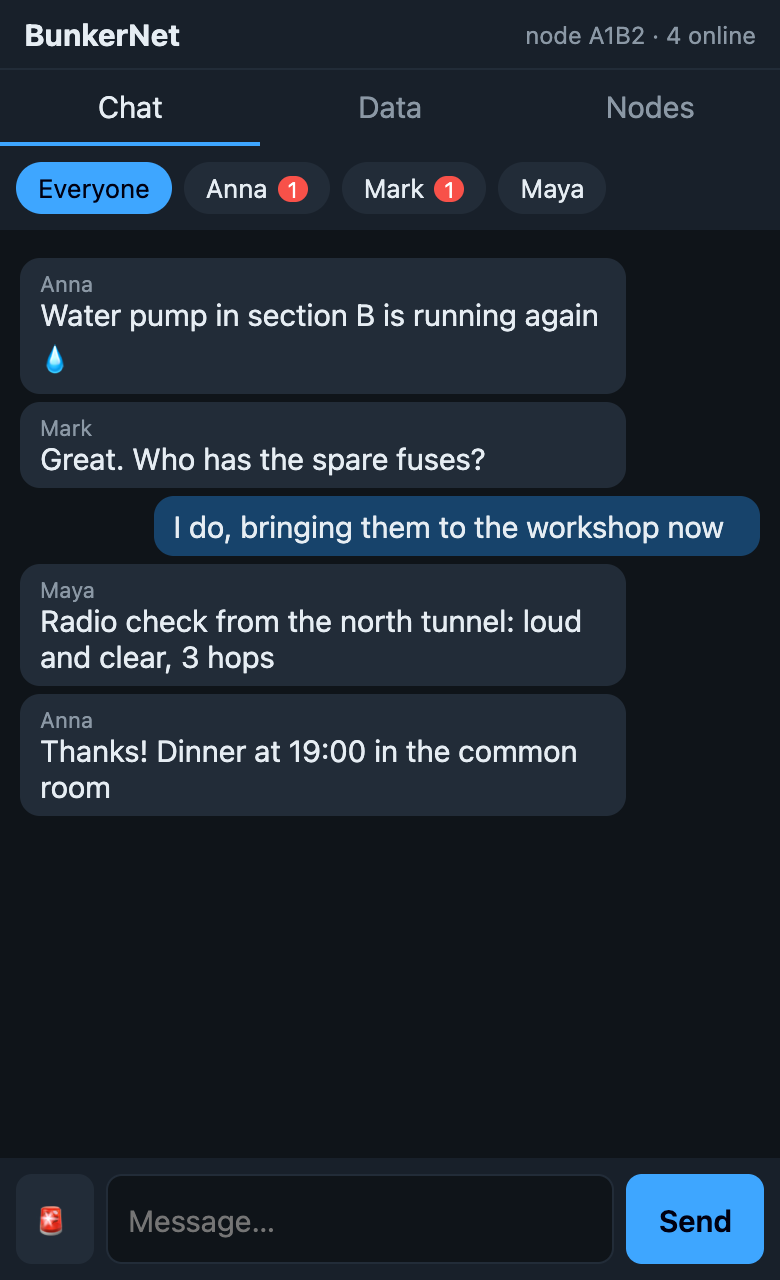
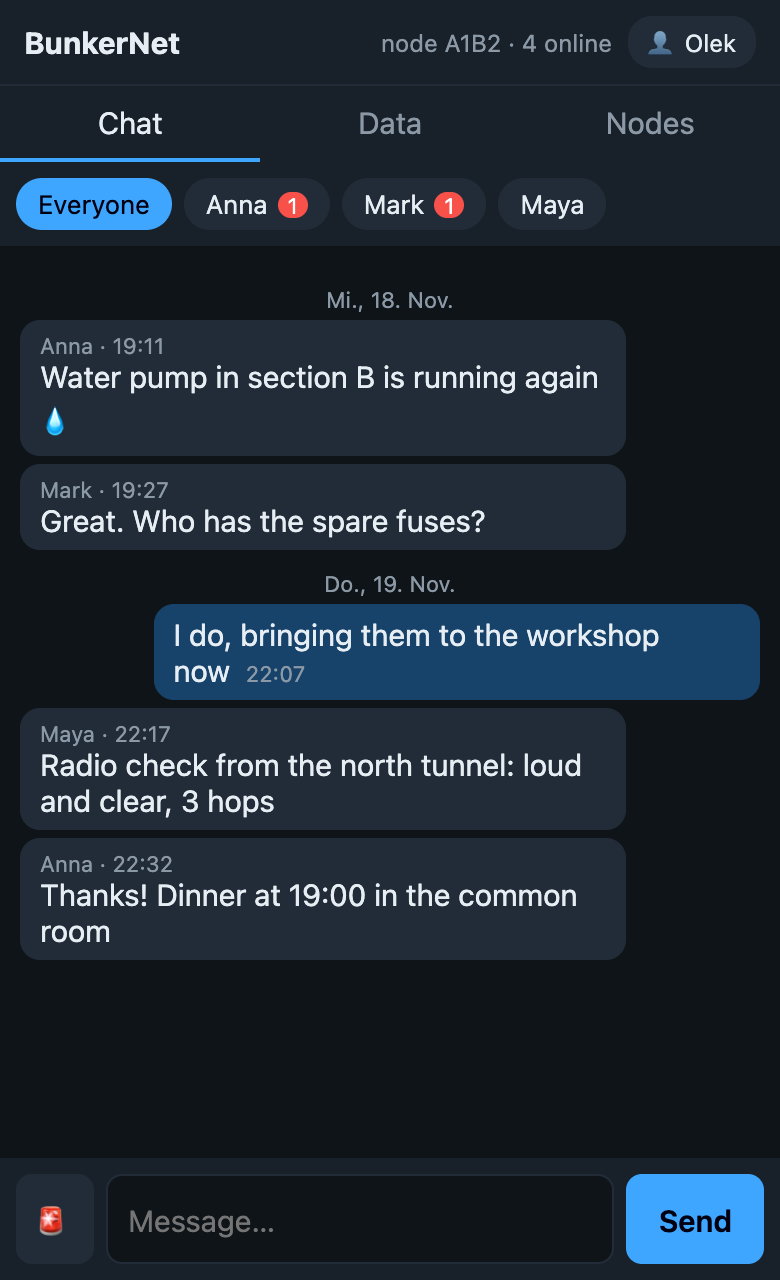
Add message and data timestamps with date separators, rename button, docs

diff --git a/tools/screenshots/mock_server.js b/tools/screenshots/mock_server.js
@@ -14,24 +14,24 @@ const state = { alert: false };
 
 // f === 'me' is replaced by the requesting client's id
 const msgs = [
-  { i: 1, t: 1, f: ANNA, to: '00000000', m: '00000001', n: 'Anna', x: 'Water pump in section B is running again 💧' },
-  { i: 2, t: 1, f: MARK, to: '00000000', m: '00000002', n: 'Mark', x: 'Great. Who has the spare fuses?' },
-  { i: 3, t: 1, f: 'me', to: '00000000', m: '00000003', n: 'Olek', x: 'I do, bringing them to the workshop now' },
-  { i: 4, t: 1, f: MAYA, to: '00000000', m: '00000004', n: 'Maya', x: 'Radio check from the north tunnel: loud and clear, 3 hops' },
-  { i: 5, t: 1, f: ANNA, to: '00000000', m: '00000005', n: 'Anna', x: 'Thanks! Dinner at 19:00 in the common room' },
-  { i: 6, t: 2, f: MARK, to: 'me', m: '00000006', n: 'Mark', x: 'Can you check the generator fuel level?' },
-  { i: 7, t: 2, f: 'me', to: MARK, m: '00000007', n: 'Olek', x: 'On my way' },
-  { i: 8, t: 2, f: 'me', to: MARK, m: '00000008', n: 'Olek', x: 'Fuel is at 70%, enough for 2 days' },
-  { i: 9, t: 2, f: ANNA, to: 'me', m: '00000009', n: 'Anna', x: 'Are you bringing the fuses?' },
-  { i: 10, t: 5, f: MARK, to: 'me', m: '00000007', n: '', x: '' },
+  { i: 1, t: 1, f: ANNA, to: '00000000', m: '00000001', n: 'Anna', x: 'Water pump in section B is running again 💧', ago: 100000 },
+  { i: 2, t: 1, f: MARK, to: '00000000', m: '00000002', n: 'Mark', x: 'Great. Who has the spare fuses?', ago: 99000 },
+  { i: 3, t: 1, f: 'me', to: '00000000', m: '00000003', n: 'Olek', x: 'I do, bringing them to the workshop now', ago: 3000 },
+  { i: 4, t: 1, f: MAYA, to: '00000000', m: '00000004', n: 'Maya', x: 'Radio check from the north tunnel: loud and clear, 3 hops', ago: 2400 },
+  { i: 5, t: 1, f: ANNA, to: '00000000', m: '00000005', n: 'Anna', x: 'Thanks! Dinner at 19:00 in the common room', ago: 1500 },
+  { i: 6, t: 2, f: MARK, to: 'me', m: '00000006', n: 'Mark', x: 'Can you check the generator fuel level?', ago: 1200 },
+  { i: 7, t: 2, f: 'me', to: MARK, m: '00000007', n: 'Olek', x: 'On my way', ago: 900 },
+  { i: 8, t: 2, f: 'me', to: MARK, m: '00000008', n: 'Olek', x: 'Fuel is at 70%, enough for 2 days', ago: 600 },
+  { i: 9, t: 2, f: ANNA, to: 'me', m: '00000009', n: 'Anna', x: 'Are you bringing the fuses?', ago: 300 },
+  { i: 10, t: 5, f: MARK, to: 'me', m: '00000007', n: '', x: '', ago: 590 },
 ];
 const users = [{ id: ANNA, n: 'Anna' }, { id: MARK, n: 'Mark' }, { id: MAYA, n: 'Maya' }];
 const data = [
-  { k: 'water_level', v: '62 %', f: MAYA },
-  { k: 'fuel_main', v: '70 %', f: MARK },
-  { k: 'temp_cellar', v: '14.2 C', f: ANNA },
-  { k: 'door_north', v: 'closed', f: MAYA },
-  { k: 'air_filter_B', v: 'check', f: MARK },
+  { k: 'water_level', v: '62 %', f: MAYA, ago: 1800 },
+  { k: 'fuel_main', v: '70 %', f: MARK, ago: 7200 },
+  { k: 'temp_cellar', v: '14.2 C', f: ANNA, ago: 300 },
+  { k: 'door_north', v: 'closed', f: MAYA, ago: 90000 },
+  { k: 'air_filter_B', v: 'check', f: MARK, ago: 5400 },
 ];
 const nodes = {
   id: 'A1B2', up: 86412, heap: 21840, clients: 3,
@@ -46,14 +46,15 @@ const nodes = {
 
 function poll(q) {
   const me = q.get('me') || '00000000', since = Number(q.get('since') || 0);
+  const now = Math.floor(Date.now() / 1000);
   const fix = (v) => (v === 'me' ? me : v);
   const out = {
     node: 'A1B2', last: msgs.length,
-    msgs: msgs.filter((m) => m.i > since).map((m) => ({ ...m, f: fix(m.f), to: fix(m.to) })),
+    msgs: msgs.filter((m) => m.i > since).map((m) => ({ ...m, s: now - m.ago, f: fix(m.f), to: fix(m.to) })),
     users: [...users, { id: me, n: q.get('name') || 'me' }],
     dv: 1, av: state.alert ? 2 : 1,
   };
-  if (q.get('dv') !== '1') out.data = data;
+  if (q.get('dv') !== '1') out.data = data.map((d) => ({ ...d, s: now - d.ago }));
   if (state.alert && q.get('av') !== '2') {
     out.alerts = [{ m: 'aaaa0001', n: 'Node-77C4', x: 'SOS button pressed at Node-77C4' }];
   }

diff --git a/tools/screenshots/shoot.js b/tools/screenshots/shoot.js
@@ -17,7 +17,7 @@ async function main() {
   const profile = fs.mkdtempSync(path.join(os.tmpdir(), 'bn-shot-'));
   const chrome = spawn(CHROME, [
     '--headless=new', `--remote-debugging-port=${CDP}`, `--user-data-dir=${profile}`,
-    '--no-first-run', '--hide-scrollbars', 'about:blank',
+    '--no-first-run', '--lang=en-US', '--hide-scrollbars', 'about:blank',
   ], { stdio: 'ignore' });
   try {
     let targets;

diff --git a/firmware/bunkernet/web_ui.h b/firmware/bunkernet/web_ui.h
@@ -28,26 +28,34 @@ table{width:100%;border-collapse:collapse}td,th{padding:7px 4px;border-bottom:1p
 .d{display:inline-block;width:8px;height:8px;border-radius:50%;background:var(--g);margin-right:6px}
 #nm{position:fixed;inset:0;background:var(--bg);display:flex;flex-direction:column;gap:10px;align-items:center;justify-content:center;padding:20px}
 #nm[hidden]{display:none}
+#who{background:var(--p2);color:var(--t);border:0;border-radius:12px;padding:3px 10px;font:inherit;font-size:12px}
+.day{text-align:center;color:var(--m);font-size:11px;margin:10px 0 4px}.m s.t{margin-left:8px}
 #al{background:var(--r);color:#fff}.al{display:flex;align-items:center;gap:8px;padding:8px 12px;border-bottom:1px solid #0004;font-weight:600}.al span{flex:1}.al button{border:0;border-radius:6px;padding:4px 8px;font:inherit;font-size:12px}
 .go.red{background:var(--r);color:#fff}#ab{padding:10px;border:0;border-radius:8px;background:var(--p2);font:inherit}
 </style></head><body>
-<header><b>BunkerNet</b><span id="st">connecting…</span></header>
+<header><b>BunkerNet</b><span id="st">connecting…</span><button id="who" title="Change your name"></button></header>
 <div id="al"></div>
 <nav><button data-t="chat" class="on">Chat</button><button data-t="data">Data</button><button data-t="nodes">Nodes</button></nav>
 <main id="chat" class="on"><div id="convs"></div><div id="msgs"></div>
 <form id="f"><button type="button" id="ab" title="Emergency alert">🚨</button><input id="x" maxlength="140" autocomplete="off" placeholder="Message…"><button class="go" id="sb">Send</button></form></main>
-<main id="data"><table><thead><tr><th>Key</th><th>Value</th><th>From</th></tr></thead><tbody id="dt"></tbody></table>
+<main id="data"><table><thead><tr><th>Key</th><th>Value</th><th>From</th><th>Updated</th></tr></thead><tbody id="dt"></tbody></table>
 <form id="df"><input id="dk" maxlength="15" placeholder="key" style="flex:.6"><input id="dv" maxlength="47" placeholder="value"><button class="go">Set</button></form></main>
 <main id="nodes"><p id="ni" style="color:var(--m)"></p><table><thead><tr><th>Node</th><th>Hops</th><th>Seen</th></tr></thead><tbody id="nt"></tbody></table></main>
-<div id="nm" hidden><h2>Welcome to BunkerNet</h2><input id="ni2" maxlength="15" placeholder="Your name" style="flex:none;width:240px"><button class="go" id="nb">Join</button></div>
+<div id="nm" hidden><h2>Welcome to BunkerNet</h2><input id="ni2" maxlength="15" placeholder="Your name" style="flex:none;width:240px"><button class="go" id="nb">Join</button><button class="chip" id="nc" hidden>Cancel</button></div>
 <script>
 const $=s=>document.querySelector(s),E=s=>String(s).replace(/[&<>"]/g,c=>({'&':'&amp;','<':'&lt;','>':'&gt;','"':'&quot;'}[c]));
 const ls=(k,v)=>{try{if(v===undefined)return localStorage.getItem(k);localStorage.setItem(k,v)}catch(e){return null}};
 let me=ls('uid');if(!me){me=('0000000'+((Math.random()*4294967294+1)>>>0).toString(16)).slice(-8);ls('uid',me)}
 let name=ls('name')||'',since=0,dv=-1,av=-1,alerts=[],seenAl={},hidAl={},alertMode=0,msgs=[],acked=new Set(),users=[],unread={},cur='all',busy=0,tab='chat',node='';
 const uname=id=>{const u=users.find(u=>u.id==id);return u?u.n:id.slice(0,4)};
-function askName(){if(name)return;$('#nm').hidden=0}
-$('#nb').onclick=()=>{const v=$('#ni2').value.trim();if(!v)return;name=v;ls('name',v);$('#nm').hidden=1;poll()};
+function askName(edit){if(name&&!edit)return;$('#ni2').value=name;$('#nc').hidden=!name;$('#nm').hidden=0;$('#ni2').focus()}
+function who(){$('#who').textContent='👤 '+(name||'?')}
+$('#who').onclick=()=>askName(1);$('#nc').onclick=()=>{$('#nm').hidden=1};
+$('#nb').onclick=()=>{const v=$('#ni2').value.trim();if(!v)return;name=v;ls('name',v);$('#nm').hidden=1;who();poll()};
+const p2=n=>('0'+n).slice(-2),tm=ms=>{const d=new Date(ms);return p2(d.getHours())+':'+p2(d.getMinutes())},
+dayk=ms=>{const d=new Date(ms);return d.getFullYear()+'-'+d.getMonth()+'-'+d.getDate()},
+dlab=ms=>new Date(ms).toLocaleDateString(undefined,{weekday:'short',day:'numeric',month:'short'}),
+stamp=ms=>dayk(ms)==dayk(Date.now())?tm(ms):dlab(ms)+' '+tm(ms);
 document.querySelectorAll('nav button').forEach(b=>b.onclick=()=>{tab=b.dataset.t;document.querySelectorAll('nav button,main').forEach(e=>e.classList.remove('on'));b.classList.add('on');$('#'+tab).classList.add('on');if(tab=='nodes')nodes()});
 const key=m=>m.t==1?'all':(m.f==me?m.to:m.f);
 function render(){
@@ -56,15 +64,15 @@ function render(){
  $('#convs').innerHTML=h;
  $('#convs').querySelectorAll('.chip').forEach(c=>c.onclick=()=>{cur=c.dataset.c;unread[cur]=0;render()});
  const box=$('#msgs'),stick=box.scrollTop+box.clientHeight>=box.scrollHeight-40;
- box.innerHTML=msgs.filter(m=>key(m)==cur).map(m=>{const mine=m.f==me;
-  return '<div class="m'+(mine?' me':'')+'">'+(mine?'':'<small>'+E(m.n)+'</small>')+E(m.x)+(mine&&m.t==2?'<s class="'+(acked.has(m.m)?'ok">✓✓':'">✓')+'</s>':'')+'</div>'}).join('');
+ let ld='';box.innerHTML=msgs.filter(m=>key(m)==cur).map(m=>{const mine=m.f==me,dk=dayk(m.ms);let h='';if(dk!=ld){ld=dk;h='<div class="day">'+dlab(m.ms)+'</div>'}
+  return h+'<div class="m'+(mine?' me':'')+'">'+(mine?'':'<small>'+E(m.n)+' · '+tm(m.ms)+'</small>')+E(m.x)+(mine?'<s class="t">'+tm(m.ms)+'</s>'+(m.t==2?'<s class="'+(acked.has(m.m)?'ok">✓✓':'">✓')+'</s>':''):'')+'</div>'}).join('');
  if(stick)box.scrollTop=box.scrollHeight}
 async function poll(){if(busy||!name)return;busy=1;
  try{const r=await fetch('/poll?since='+since+'&me='+me+'&name='+encodeURIComponent(name)+'&dv='+dv+'&av='+av,{cache:'no-store'});const j=await r.json();
   node=j.node;users=j.users;since=j.last;
-  j.msgs.forEach(m=>{if(m.t==5){acked.add(m.m);return}msgs.push(m);const k=key(m);if(k!=cur&&m.f!=me)unread[k]=(unread[k]||0)+1});
+  j.msgs.forEach(m=>{if(m.t==5){acked.add(m.m);return}m.ms=m.s?m.s*1000:Date.now();msgs.push(m);const k=key(m);if(k!=cur&&m.f!=me)unread[k]=(unread[k]||0)+1});
   if(msgs.length>300)msgs=msgs.slice(-300);
-  if(j.data){dv=j.dv;$('#dt').innerHTML=j.data.map(d=>'<tr><td>'+E(d.k)+'</td><td>'+E(d.v)+'</td><td>'+E(uname(d.f))+'</td></tr>').join('')||'<tr><td colspan=3 style="color:var(--m)">No data yet</td></tr>'}
+  if(j.data){dv=j.dv;$('#dt').innerHTML=j.data.map(d=>'<tr><td>'+E(d.k)+'</td><td>'+E(d.v)+'</td><td>'+E(uname(d.f))+'</td><td>'+(d.s?stamp(d.s*1000):'–')+'</td></tr>').join('')||'<tr><td colspan=4 style="color:var(--m)">No data yet</td></tr>'}
   if(j.alerts){av=j.av;alerts=j.alerts;let nw=0;alerts.forEach(a=>{if(!seenAl[a.m]){seenAl[a.m]=1;nw=1}});if(nw){try{navigator.vibrate([400,150,400,150,400])}catch(e){}beep()}drawAl()}
   $('#st').className='';$('#st').textContent='node '+node+' · '+users.length+' online';render()
  }catch(e){$('#st').className='bad';$('#st').textContent='reconnecting…'}busy=0}
@@ -73,10 +81,10 @@ function drawAl(){$('#al').innerHTML=alerts.filter(a=>!hidAl[a.m]).map(a=>'<div 
  $('#al').querySelectorAll('button').forEach(b=>b.onclick=()=>{if(b.dataset.h){hidAl[b.dataset.h]=1;drawAl()}else{post('/alertclear',{me,m:b.dataset.c})}})}
 $('#ab').onclick=()=>{alertMode=!alertMode;$('#sb').className='go'+(alertMode?' red':'');$('#sb').textContent=alertMode?'ALERT':'Send';$('#x').placeholder=alertMode?'Emergency alert text…':'Message…'};
 async function post(u,o){try{await fetch(u,{method:'POST',body:new URLSearchParams(o)})}catch(e){}poll()}
-$('#f').onsubmit=e=>{e.preventDefault();const x=$('#x').value.trim();if(!x)return;$('#x').value='';if(alertMode){$('#ab').click();post('/alert',{me,name,x})}else post('/send',{me,name,to:cur=='all'?'0':cur,x})};
-$('#df').onsubmit=e=>{e.preventDefault();const k=$('#dk').value.trim(),v=$('#dv').value.trim();if(!k)return;$('#dk').value=$('#dv').value='';post('/put',{me,name,k,v})};
+$('#f').onsubmit=e=>{e.preventDefault();const x=$('#x').value.trim();if(!x)return;$('#x').value='';if(alertMode){$('#ab').click();post('/alert',{me,name,x})}else post('/send',{me,name,ts:Math.floor(Date.now()/1000),to:cur=='all'?'0':cur,x})};
+$('#df').onsubmit=e=>{e.preventDefault();const k=$('#dk').value.trim(),v=$('#dv').value.trim();if(!k)return;$('#dk').value=$('#dv').value='';post('/put',{me,name,ts:Math.floor(Date.now()/1000),k,v})};
 async function nodes(){try{const j=await(await fetch('/nodes',{cache:'no-store'})).json();
  $('#ni').textContent='This node: '+j.id+' · up '+j.up+'s · free heap '+j.heap+' · clients '+j.clients;
  $('#nt').innerHTML=j.nodes.map(n=>'<tr><td><span class="d"></span>'+E(n.n)+' <small style="color:var(--m)">'+n.id+'</small></td><td>'+n.h+'</td><td>'+n.a+'s</td></tr>').join('')}catch(e){}}
-setInterval(()=>{poll();if(tab=='nodes')nodes()},1500);askName();poll();
+setInterval(()=>{poll();if(tab=='nodes')nodes()},1500);who();askName();poll();
 </script></body></html>)HTML";

diff --git a/README.md b/README.md
@@ -13,7 +13,10 @@ scenario, but it works equally well for a cabin, a festival or a blackout.
 
 ## Features
 
-- **Group chat and private messages**, with delivery ticks (✓ sent, ✓✓ delivered).
+- **Group chat and private messages**, with delivery ticks (✓ sent, ✓✓ delivered), plus
+  **time stamps and date separators** on every message.
+- **Your name:** the first time you open the page it asks for a name, saved in your browser.
+  Tap your name at the top right to change it at any time.
 - **Emergency alerts:** a red banner with sound and vibration on every device on every node,
   repeated for about 5 minutes so briefly-offline nodes still get it. Optional **hardware SOS
   button** (hold 2 s).
@@ -53,8 +56,12 @@ The web app is served by every node and works in any phone or laptop browser.
   new packet after a small random delay to avoid collisions.
 - **Access:** every node is a soft access point on the same channel, with a captive portal
   that serves the web app. The page polls the node over HTTP, so any browser works.
-- **Identity:** the browser generates a random id and a name, kept in local storage. Private
-  messages are addressed to that id.
+- **Identity:** the browser generates a random id and asks for a display name, both kept in
+  local storage. Private messages are addressed to the id, so renaming never breaks a chat.
+  Names are not unique and nothing stops two people choosing the same one.
+- **Time:** the nodes have no clock (an ESP8266 has no battery-backed RTC), so each message
+  carries the sender's own phone or laptop time, and everyone sees the same stamp. If a
+  device's clock is wrong its messages will show the wrong time.
 - **Delivery receipts:** a private message is acknowledged when the recipient's device
   actually fetches it, and the receipt floods back to the sender's node.
 
@@ -152,8 +159,8 @@ choose (non-zero).
 
 | Endpoint | Purpose |
 |----------|---------|
-| `POST /send` | `me`, `name`, `to` (`0` = everyone), `x` (text) |
-| `POST /put` | `me`, `name`, `k`, `v`: set a data-board entry |
+| `POST /send` | `me`, `name`, `to` (`0` = everyone), `x` (text), `ts` (optional unix seconds) |
+| `POST /put` | `me`, `name`, `k`, `v`, `ts` (optional): set a data-board entry |
 | `POST /alert`, `POST /alertclear` | `me`, `name`, `x` / `me`, `m` |
 | `GET /poll` | `me`, `name`, `since`, `dv`, `av`: new messages, users, data, alerts |
 | `GET /nodes` | Known nodes, hops and node stats |
@@ -168,7 +175,7 @@ curl -d "me=0000a001&name=cellar&k=temp&v=14.2C" http://192.168.4.1/put
 
 Packets are at most 250 bytes: `magic | ttl | origin(4) boot(4) seq(4) | len | ciphertext | tag(16)`.
 The 12-byte nonce (origin, boot id, sequence number) is authenticated as additional data.
-The payload holds the message type, original TTL, sender, recipient, message id, name and text.
+The payload holds the message type, original TTL, sender, recipient, message id, sender timestamp, name and text.
 Types: chat, DM, presence, beacon, ACK, data, alert. See
 [`bunkernet.ino`](firmware/bunkernet/bunkernet.ino).
 
